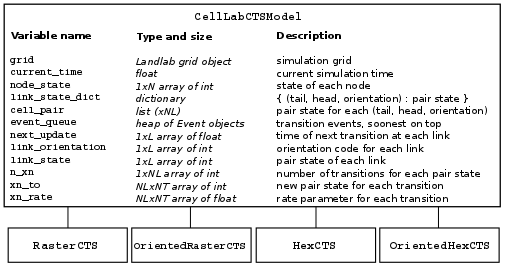
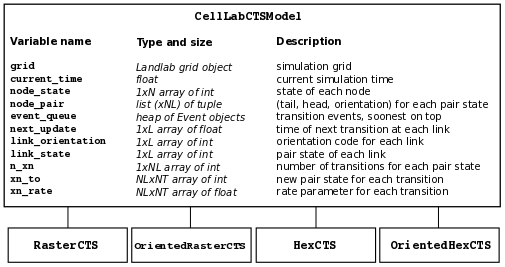
edited CellLab-CTS user guide; minor edits to celllab_cts.py and test_celllab

diff --git a/landlab/components/cellular_automata/celllab_cts.py b/landlab/components/cellular_automata/celllab_cts.py
@@ -126,6 +126,7 @@ from heapq import heappop
 import landlab
 import numpy
 import pylab as plt
+from numpy import zeros
 
 _NEVER = 1e50
 
@@ -468,6 +469,10 @@ class CellLabCTSModel(object):
         dictionary keys are 3-element tuples, each of which represents the state
         of the TAIL node, the HEAD node, and the orientation of the link. The 
         values are integer codes representing the link state numbers.
+        
+        (Performance note: making self.node_pair a tuple does not appear to 
+        change time to lookup values in update_node_states. Changing it to a
+        2D array of int actually slows it down.)
         """
         self.link_state_dict = {}
         self.node_pair = []
@@ -476,9 +481,9 @@ class CellLabCTSModel(object):
             for tail_state in range(self.num_node_states):
                 for head_state in range(self.num_node_states):
                     self.link_state_dict[(tail_state,head_state,orientation)] = k
-                    k+=1
                     self.node_pair.append((tail_state,head_state,orientation))
-    
+                    k+=1
+                    
         if False and _DEBUG:
             print()
             print('create_link_state_dict_and_pair_list(): dict is:')
@@ -737,7 +742,7 @@ class CellLabCTSModel(object):
             for e in self.event_queue:
                 print('    next_time:',e.time,'link:',e.link,'xn_to:',e.xn_to)
             
-            
+    #@profile
     def update_node_states(self, tail_node, head_node, new_link_state):
         """
         Updates the states of the two nodes in the given link.

diff --git a/landlab/components/cellular_automata/tests/test_celllab_cts.py b/landlab/components/cellular_automata/tests/test_celllab_cts.py
@@ -168,6 +168,4 @@ def test_oriented_hex_cts():
     assert_array_equal(ohcts.link_orientation, [2, 1, 0, 0, 0, 2, 1, 0, 2, 1, 0])
 
 
-if __name__=='__main__':
-    test_oriented_hex_cts()
     

diff --git a/docs/celllab_manual.rst b/docs/celllab_manual.rst
@@ -5,7 +5,7 @@ CellLab-CTS 2015 Users Manual
 
 Created: August 2015, Greg Tucker
 
-Last updated: August 2015
+Last updated: September 2015
 
 Introduction
 ------------
@@ -14,9 +14,9 @@ CellLab-CTS is a Landlab module for building pairwise, continuous-time stochasti
 
 This Users Manual provides instructions on how to write a model using CellLab-CTS, along with reference information about the classes and methods that CellLab-CTS provides. For further information about the theory, implementation, and design of CellLab-CTS, see Tucker et al. (2015 in prep). For background information on the theory of pairwise CTS models and example applications, see Narteau et al. (2001, 2009) and Rozier and Narteau (2014). For background on cellular automata in general, see Chopard and Droz (1998).
 
-*Note on terminology:* In a CellLab-CTS model, the computational points---the objects that are normally called **cells** in a cellular automaton model---actually correspond with the **nodes** in a Landlab grid. Although Landlab grids also contain *cells*, which are defined as polygons that contains a node, Landlab grids do not have cells along the outmost ring of nodes around the grid. For example, a 4-row by 5-column Landlab raster grid has 20 nodes but only 6 cells (2 inner rows x 3 inner columns). For CellLab-CTS models, it is useful to include the perimeter nodes as "cells" for the purpose of handling boundary conditions. Therefore, CellLab-CTS treats all the **nodes** in the grid as if they were cells in a cellular automaton. This includes the perimeter nodes, for which Landlab does not formally define cells. For practical purposes, the distinction doesn't make much difference, but it is important to understand that CellLab-CTS works with arrays of grid nodes rather than the (shorter) arrays of grid cells. Henceforth, to avoid confusion, we will refer to **nodes**, which you should read as being synonymous with the usual meaning of "cell" in a cellular automaton.
+*Note on terminology:* In a CellLab-CTS model, the computational points---the objects that are normally called **cells** in a cellular automaton model---actually correspond with the **nodes** in a Landlab grid. Although Landlab grids also contain *cells*, which are defined as polygons that contain a node, Landlab grids do not have cells along the outmost ring of nodes around the grid. For example, a 4-row by 5-column Landlab raster grid has 20 nodes but only 6 cells (2 inner rows x 3 inner columns). For CellLab-CTS models, it is useful to include the perimeter nodes as "cells" for the purpose of handling boundary conditions. Therefore, CellLab-CTS treats all the **nodes** in the grid as if they were cells in a cellular automaton. This includes the perimeter nodes, for which Landlab does not formally define cells. For practical purposes, the distinction doesn't make much difference, but it is important to understand that CellLab-CTS works with arrays of grid nodes rather than the (shorter) arrays of grid cells. Henceforth, to avoid confusion, we will refer to **nodes**, which you should read as being synonymous with the usual meaning of "cell" in a cellular automaton.
 
-*Prerequisites:* This manual assumes working knowledge of the Python programming language (any version), including basic familiarity with Python classes and objects. It is also helpful to have some familiarity with the Matplotlib and/or Pylab plotting libraries.
+*Prerequisites:* This manual assumes working knowledge of the Python programming language (any version), including basic familiarity with Python classes and objects. It also assumes a basic familiarity with Landlab grids. In addition, it will be helpful to have some familiarity with the Matplotlib and/or Pylab plotting libraries.
 
 
 Writing a CellLab-CTS model
@@ -25,7 +25,7 @@ Writing a CellLab-CTS model
 What is a CellLab-CTS model?
 ~~~~~~~~~~~~~~~~~~~~~~~~~~~~
 
-A CellLab-CTS model is a Python code that creates and initializes a ``CellLabCTSModel`` object, defines the possible cell states and transition rules, and calls the ``run`` method to execute the model. A CellLab-CTS model can be written in one of two basic ways. The first option is to write a simple Python script that imports the necessary ingredients. This approach is easy and versatile, and is recommended for first-time users, and/or those who are relatively unfamiliar with Python classes. The second option is to write your model as a subclass of one of the four existing CellLabModel subclasses (more on these below). The subclass approach is useful when you wish to use the *dynamic property updating* capability of CellLab-CTS---that is, for example, when you want to attach some form of additional data to the grid, and update the data at each transition event according to the state of the grid. In this manual, we will focus on the example of a simple script-based model.
+A CellLab-CTS model is a Python code that creates and initializes one of four types of ``CellLabCTSModel`` object, defines the possible cell states and transition rules, and calls the ``run`` method to execute the model. A CellLab-CTS model can be written in one of two basic ways. The first option is to write a simple Python script that imports the necessary ingredients. This approach is easy and versatile, and is recommended for first-time users, and/or those who are relatively unfamiliar with Python classes. The second option is to write your model as a subclass of one of the four existing CellLabModel subclasses (more on these below). The subclass approach is useful when you wish to use the *dynamic property updating* capability of CellLab-CTS---that is, for example, when you want to attach some form of additional data to the grid, and update the data at each transition event according to the state of the grid. In this manual, we will focus on the example of a simple script-based model.
 
 Basic ingredients of a CellLab-CTS model
 ~~~~~~~~~~~~~~~~~~~~~~~~~~~~~~~~~~~~~~~~
@@ -63,14 +63,14 @@ With these different possibilities in mind, the four CellLab-CTS model types are
 1. ``RasterCTS:`` A non-oriented grid of square cells.
 2. ``OrientedRasterCTS:`` An oriented grid of square cells, with two orientations (horizontal and vertical).
 3. ``HexCTS``: A non-oriented grid of hexagons.
-4. ``OrientedHexCTS:`` An oriented grid of hexagons, with three orientations. These default to: (1) vertical, (2) +30 degrees from horizontal (angling down/left to up/right), and (3) -30 degrees from horizontal (angling up/left to down/right).
+4. ``OrientedHexCTS:`` An oriented grid of hexagons, with three orientations. These can be: (1) vertical, (2) +30 degrees from horizontal (angling down/left to up/right), and (3) -30 degrees from horizontal (angling up/left to down/right). Or, alternatively, the three axes can be horizontal and +/-30 degrees from vertical (one determines this when instantiating the grid object, as illustrated below).
 
 These four types are implemented as subclasses of the base class ``CellLabCTSModel``, as illustrated in Figure 2.
 
 .. figure:: images/ca_class_hierarchy.png
     :align: center
 
-    Figure 2: CellLab-CTS class hierarchy and main data structures. N = number of grid nodes, L = number of grid links, NL =number of possible link (node pair) states, NT = maximum number of transitions for any link state.
+    Figure 2: CellLab-CTS class hierarchy and main data structures. N = number of grid nodes, L = number of grid links, NL = number of possible link (node pair) states, NT = maximum number of transitions for any link state.
 
 
 Step 1: Importing CellLab-CTS
@@ -99,7 +99,7 @@ A CellLab-CTS application normally starts by importing the appropriate type of C
 	from landlab.components.cellular_automata.celllab_cts import Transition, CAPlotter
 	from landlab.components.cellular_automata.raster_cts import RasterCTS
 
-Here, we're using a non-oriented raster model, so we import the RasterCTS class. We also import the CAPlotter class for help with graphical display (more on that below), as well as the Transition class. We need the Transition class to set up our pair transitions, which we explore next.
+Here, we're using a raster model, so we import Landlab's ``RasterModelGrid`` class. It will be a non-oriented raster model, so we import the ``RasterCTS`` class (rather than  ``OrientedRasterCTS``). We also import the ``CAPlotter`` class for help with graphical display (more on that below), as well as the ``Transition`` class. We need the Transition class to set up our pair transitions, which we explore next.
 
 
 Setting up transitions
@@ -110,7 +110,7 @@ Sequence matters!
 
 A particular pair state is described by the two node states, and optionally by the pair's orientation. A key thing to understand here is that any particular pair sequence, such as 0 and 1, is *different from the sequence in reverse*. The pair 0-1 is not the same as the pair 1-0! This is true for all four types of model. So then which is which? To answer this question, we first need to recall that each pair corresponds to the two ends of a *link* in the Landlab grid. A link is simply a directed line segment that connects two neighboring nodes. Every link has a *tail* and a *head* (like the head of an arrow); the direction of the link is from tail to head. The rule for CellLab-CTS pairs is that the first number refers to the tail of the corresponding link, and the second refers to its head. Thus, the pair state 0-1 means that the tail node has state 0 and the head node has state 1. 
 
-By default, the links in a raster grid always run either from down to up (for vertical links) or left to right (for horizontal links) (Figure 3). For example, with a 0-1 pair in a raster grid, the 0 is either the left-hand node (if it's a horizontal pair) or the bottom node (if the pair is vertical). In a default hex grid, the links point either (1) upward, (2) angling right and up 30 degrees, or (3) angling right and down 30 degrees. (Note that you also have the option of switching the grid orientation so that one of the principal axes is horizontal instead of vertical; in that case, the three orientations are horizontal, 30 degrees clockwise from vertical, and 30 degrees counter-clockwise from vertical).
+By default, the links in a raster grid always run from down to up (for vertical links) or left to right (for horizontal links) (Figure 3). For example, with a 0-1 pair in a raster grid, the 0 is either the left-hand node (if it's a horizontal pair) or the bottom node (if the pair is vertical). In a default hex grid, the links point either (1) upward, (2) angling right and up 30 degrees, or (3) angling right and down 30 degrees. (Note that you also have the option of switching the grid orientation so that one of the principal axes is horizontal instead of vertical; in that case, the three orientations are horizontal, 30 degrees clockwise from vertical, and 30 degrees counter-clockwise from vertical).
 
 .. figure:: images/grid_schematic2.png
     :align: center
@@ -120,19 +120,19 @@ By default, the links in a raster grid always run either from down to up (for ve
 How transitions are represented
 >>>>>>>>>>>>>>>>>>>>>>>>>>>>>>>
 
-Each transition type is described by the states of the starting and ending pairs, and by the orientation of the pair. This information is encoded in a 3-element tuple. Recall that each pair is associated with a link. The first number is the state of the link's tail node, the second is the state of the link's head node, and the third is an *orientation code* that represents the pair's spatial orientation (Figure 4). In a non-oriented model, the orientation code is always zero. In an oriented raster, the orientation code is either 0 (horizontal) or 1 (vertical). For example, the code (0, 1, 0) in an oriented raster model would represent a horizontal pair in which the left node has state 0 and the right state 1. 
+Each transition type is described by the states of the tail and head nodes, and by the orientation of the pair. This information is encoded in a 3-element tuple. Recall that each pair is associated with a link. The first number is the state of the link's tail node, the second is the state of the link's head node, and the third is an *orientation code* that represents the pair's spatial orientation (Figure 4). In a non-oriented model, the orientation code is always zero. In an oriented raster, the orientation code is either 0 (horizontal) or 1 (vertical). For example, the code (0, 1, 0) in an oriented raster model would represent a vertical pair in which the left node has state 0 and the right state 1. 
 
 .. figure:: images/cell_pair_orientation.png
     :align: center
 
     Figure 4: Pair orientation codes in a raster (top 2 panels) and vertical hex (bottom 3 panels) grid.
 
-In an oriented hex, the orientation codes depend on the orientation of the grid itself. A Landlab ``HexModelGrid`` can be oriented such that one of the three principal axes is either horizontal (the default) or vertical. The choice is controlled by the optional keyword argument ``orientation`` (either ``'vertical'`` or ``'horizontal'``) in the ``HexModelGrid`` initialization function. For a vertically aligned hex grid, the CellLab-CTS orientation codes are: 0 for vertical, 1 for right and upward, and 2 for right and downward. For example, the code (1, 0, 2) would represent a down-and-right pair, with a state of 1 in the upper-left node and 0 in the lower-right node. For a horizontally aligned hex grid, the CellLab-CTS orientation codes are: 0 for upward and left, 1 for upward and right, and 2 for right. For example, the code (1, 0, 2) would represent a left-to-right pair, with a state of 1 in the left node and 0 in the right node.
+In an oriented hex, the orientation codes depend on the orientation of the grid itself. A Landlab ``HexModelGrid`` can be oriented such that one of the three principal axes is either horizontal (the default) or vertical. The choice is controlled by the optional keyword argument ``orientation`` (either ``'vertical'`` or ``'horizontal'``) in the ``HexModelGrid`` initialization function. For a vertically aligned hex grid, the CellLab-CTS orientation codes are: 0 for vertical, 1 for right and upward, and 2 for right and downward (Figure 4). For example, the code (1, 0, 2) would represent a down-and-right pair, with a state of 1 in the upper-left node and 0 in the lower-right node. For a horizontally aligned hex grid, the CellLab-CTS orientation codes are: 0 for upward and left, 1 for upward and right, and 2 for right. For example, the code (1, 0, 2) would represent a left-to-right pair, with a state of 1 in the left node and 0 in the right node.
 
 Example of a transition setup function
 >>>>>>>>>>>>>>>>>>>>>>>>>>>>>>>>>>>>>>
 
-It can be helpful to put the transition setup procedure inside a function of its own. Here is the transition setup function for our turbulent suspension example (note that the function itself has only four lines of code; all the rest is documentation):
+It can be helpful to put the transition setup procedure inside a function of its own. Here is the transition setup function for our turbulent suspension example (notice that the function itself has only four lines of code; all the rest is documentation):
 
 .. code-block:: python
 
@@ -185,7 +185,7 @@ It can be helpful to put the transition setup procedure inside a function of its
 
 In this example, state 0 represents the fluid and state 1 represents a particle. Motion is represented by a transition from a 0-1 pair to a 1-0, or vice versa.
 
-Your transition setup function should create and return a list of ``Transition`` objects. A Transition object contains (and is initialized with) the 3-element tuples for the starting and ending transitions, a transition rate (in units of cells per time), and (optionally) a name. Two other optional parameters are used when you want to track properties associated with moving particles: a boolean flag (``swap_properties``) indicating whether the transition involves an exchange of properties, and the name of a user-defined callback function (``prop_update_fn``) to invoke whenever a transition of that type occurs.
+Your transition setup function should create and return a list of ``Transition`` objects. A Transition object contains (and is initialized with) the 3-element tuples for the starting and ending transitions, a transition rate (in units of cell-widths per time), and (optionally) a name. Two other optional parameters are used when you want to track properties associated with moving particles: a boolean flag (``swap_properties``) indicating whether the transition involves an exchange of properties, and the name of a user-defined callback function (``prop_update_fn``) to invoke whenever a transition of that type occurs.
 
 (Note that it is also possible to specify a single-integer code for the link state, instead of 3-element tuple. This is a bit more of a headache, however, since it requires you to work out the link-state code corresponding to each pair, and is not recommended.)
 
@@ -317,7 +317,7 @@ If you wish to pause occasionally to plot and/or write data to file, a natural a
     current_time = 0.0
     while current_time < run_duration:
         
-        # Once in a while, print out simulation and real time to let the user
+        # Once in a while, print out simulation real time to let the user
         # know that the sim is running ok
         current_real_time = time.time()
         if current_real_time >= next_report:
@@ -353,13 +353,7 @@ Each of the four types of CTS model inherits from the base class (CellLabCTSMode
 ``node_state`` : 1d array (x number of nodes in grid)    
 	Node-based grid of node-state codes. This is the grid of cell (sic) states.
     
-``link_state_dict`` : dictionary
-    Keys are 3-element tuples that represent the cell-state pairs and 
-    orientation code for each possible link type; values are the corresponding
-    link-state codes. Allows you to look up the link-state code corresponding
-    to a particular pair of adjacent nodes with a particular orientation.
-
-``cell_pair`` : list (x number of possible link states)
+``node_pair`` : list (x number of possible link states)
     List of 3-element tuples representing all the various link states. Allows
     you to look up the node states and orientation corresponding to a particular 
     link-state ID.
@@ -378,7 +372,7 @@ Each of the four types of CTS model inherits from the base class (CellLabCTSMode
     compare its time with the corresponding transition time in the *next_update*
     array. If they are different, the event is discarded.
 
-``active_link_orientation`` : 1d array of ints (x number of active links)
+``link_orientation`` : 1d array of ints (x number of active links)
     Orientation code for each link.
     
 ``link_state`` : 1d array of ints (x number of active links)
@@ -452,6 +446,6 @@ Narteau, C., Zhang, D., Rozier, O., & Claudin, P. (2009). Setting the length and
 
 Rozier, O., & Narteau, C. (2014). A real‐space cellular automaton laboratory. Earth Surface Processes and Landforms, 39(1), 98-109.
 
-Tucker, G.E., Hobley, D.E.J., et al. (2015 in prep) CellLab-CTS 2015: A Python library for continuous-time stochastic cellular automaton modeling using Landlab.
+Tucker, G.E., Hobley, D.E.J., Hutton, E., Gasparini, N.M., Istanbulluoglu, E., Adams, J.M., and Nudurupati, S.S. (in review) CellLab-CTS 2015: A Python library for continuous-time stochastic cellular automaton modeling using Landlab. Submitted to Geoscientific Model Development, September 2015.
 
 
